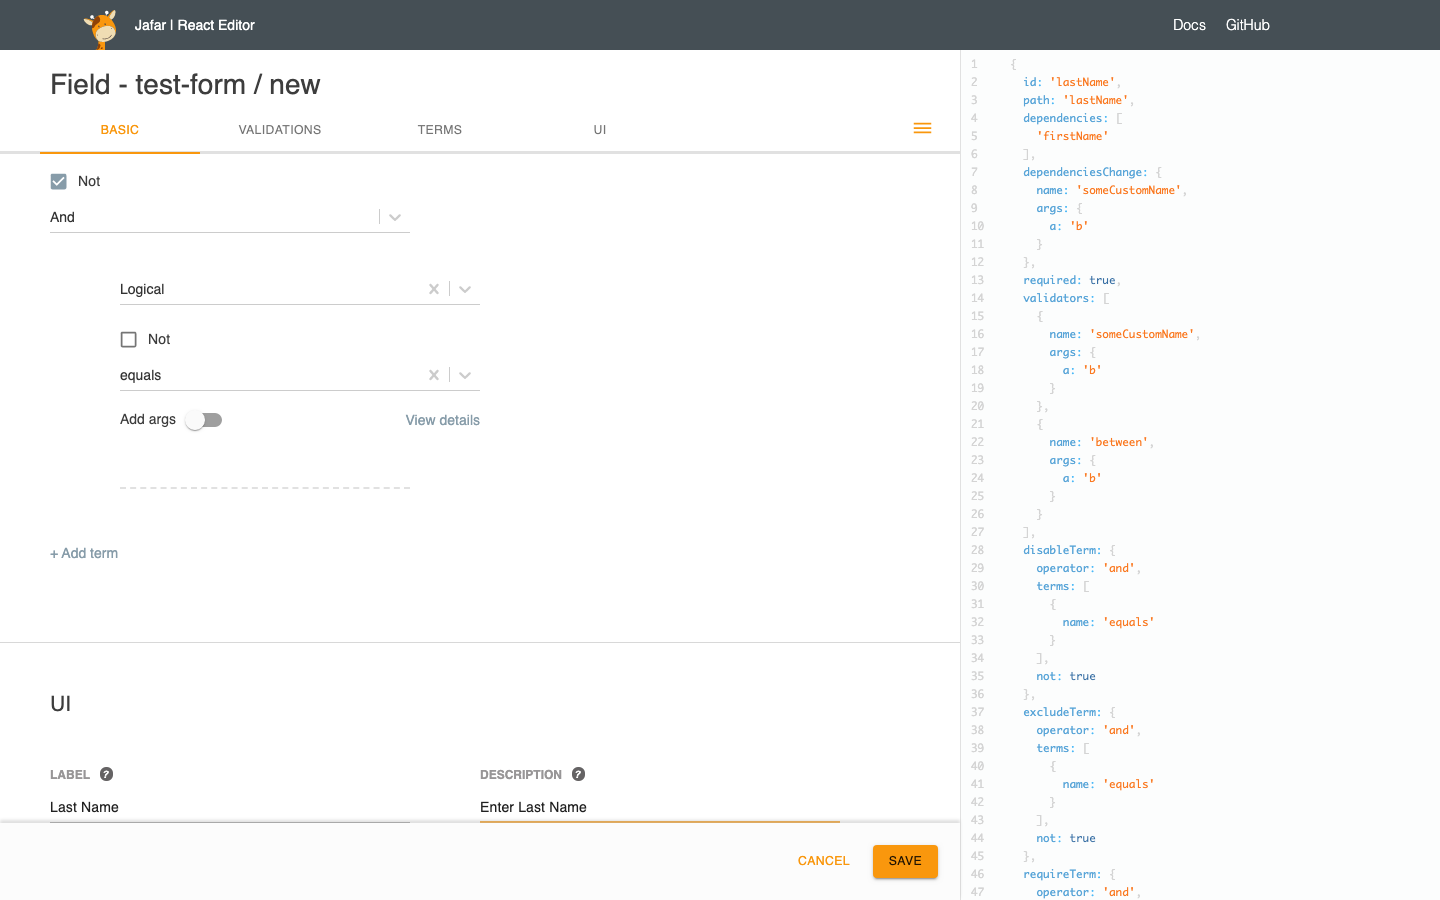
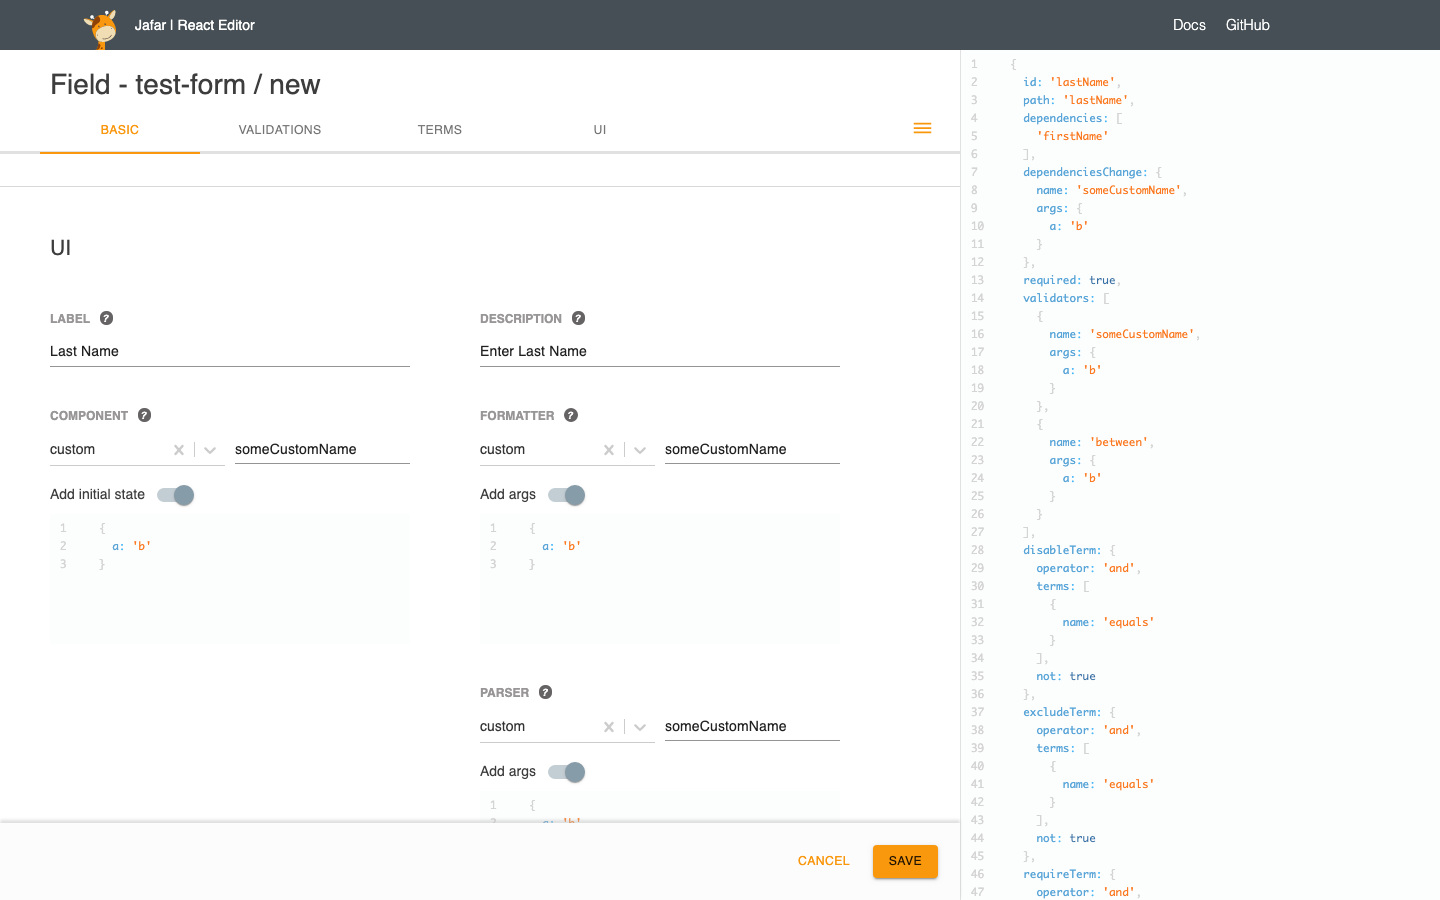
update

diff --git a/packages/react-editor/src/website/Root.e2e.js b/packages/react-editor/src/website/Root.e2e.js
@@ -202,10 +202,7 @@ async function testCreateFieldFirstName(page) {
   await verifyJsonView(page, expectedFieldJson);
 
   // enter field path
-  await textFieldTypeText(page, 'path', 'firstName');
-  await page.waitFor(JAFAR_LIFECYCLE);
-  expectedFieldJson.path = 'firstName';
-  await verifyJsonView(page, expectedFieldJson);
+  await fillTextField(page, 'path', 'firstName', expectedFieldJson);
 
   // save field
   await page.waitFor(JAFAR_LIFECYCLE);
@@ -241,8 +238,7 @@ async function testCreateFieldLastName(page) {
   await fillTextField(page, 'path', 'lastName', expectedFieldJson);
 
   // verify field dependenciesChange not exists
-  const dependenciesChangeField = await page.$(`div[id="dependenciesChange"]`);
-  expect(dependenciesChangeField).toBeFalsy();
+  await verifyFieldMissing(page, 'dependenciesChange');
 
   // enter field dependencies - open dropdown
   await selectFromDropdown(page, 'dependencies', 1);
@@ -251,9 +247,7 @@ async function testCreateFieldLastName(page) {
   await verifyJsonView(page, expectedFieldJson);
 
   // enter field dependenciesChange
-  await fillHandler(page, 'dependenciesChange', 1);
-  expectedFieldJson.dependenciesChange = { name: 'someCustomName', args: { a: 'b' } };
-  await verifyJsonView(page, expectedFieldJson);
+  await fillHandlerAndVerify(page, 'dependenciesChange', expectedFieldJson);
 
   // click field required
   await page.click(`div[id="required"] input`);
@@ -288,12 +282,17 @@ async function testCreateFieldLastName(page) {
   await fillTextField(page, 'description', 'Enter Last Name', expectedFieldJson);
 
   // verify formatter and parser are excluded
+  await verifyFieldMissing(page, 'formatter');
+  await verifyFieldMissing(page, 'parser');
 
   // add component
+  await fillHandlerAndVerify(page, 'component', expectedFieldJson, 'state');
 
-  // verify formatter and parser are included
+  // add formatter
+  await fillHandlerAndVerify(page, 'formatter', expectedFieldJson);
 
-  // add formatter and parser
+  // add parser
+  await fillHandlerAndVerify(page, 'parser', expectedFieldJson);
 
   // click show json
 
@@ -306,10 +305,21 @@ async function testCreateFieldLastName(page) {
   return expectedFieldJson;
 }
 
+async function verifyFieldMissing(page, id) {
+  const field = await page.$(`div[id="${id}"]`);
+  expect(field).toBeFalsy();
+}
+
 async function fillTextField(page, id, text, expectedFieldJson) {
   await textFieldTypeText(page, id, text);
   await page.waitFor(JAFAR_LIFECYCLE);
   expectedFieldJson[id] = text;
+  await verifyJsonView(page, expectedFieldJson);
+}
+
+async function fillHandlerAndVerify(page, id, expectedFieldJson, argsName = 'args') {
+  await fillHandler(page, id, 1);
+  expectedFieldJson[id] = { name: 'someCustomName', [argsName]: { a: 'b' } };
   await verifyJsonView(page, expectedFieldJson);
 }
 
